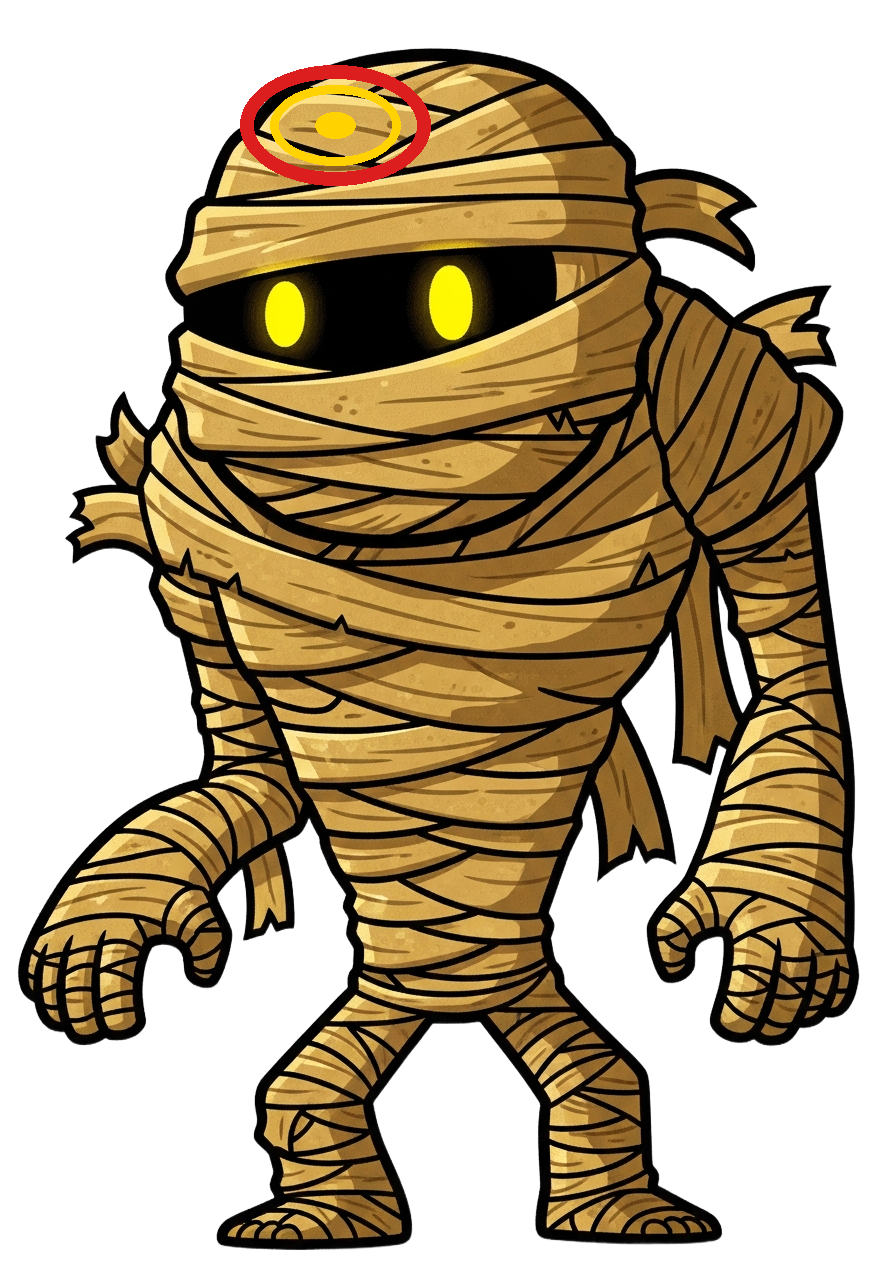
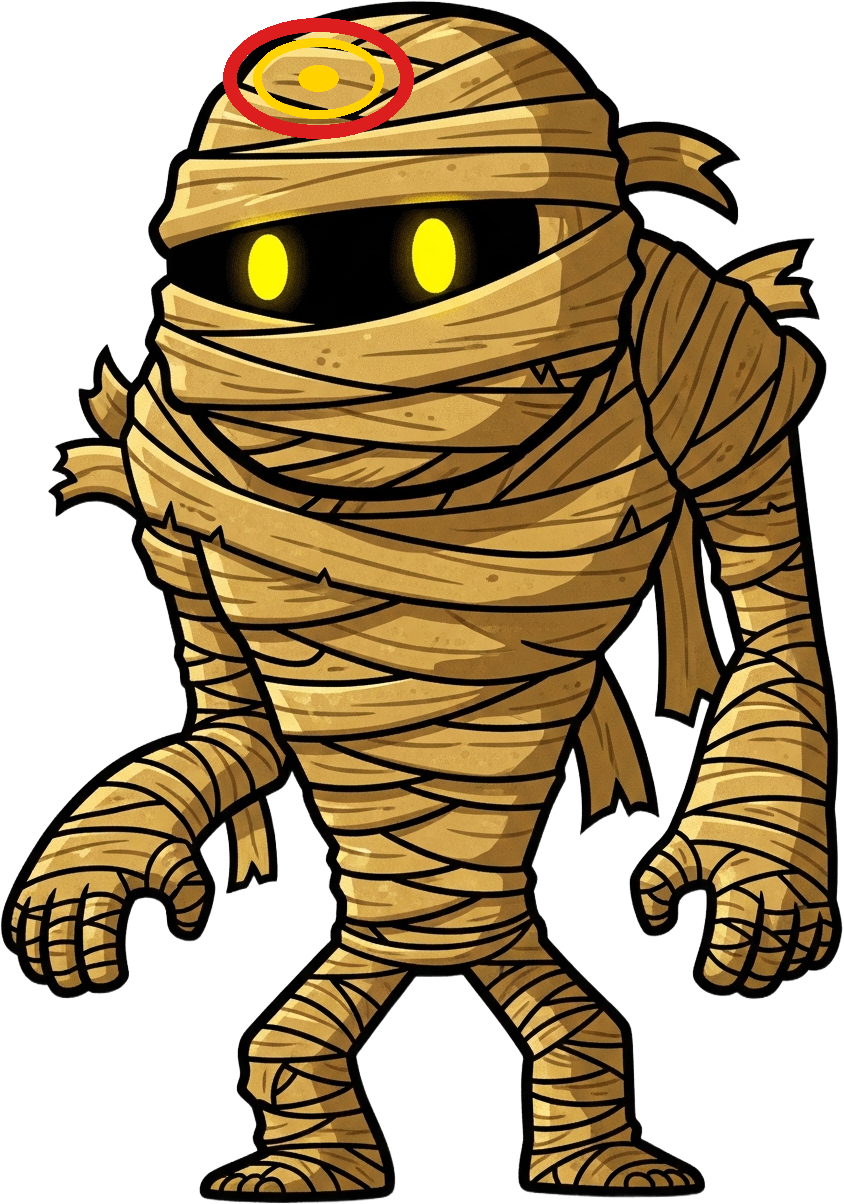
Improve mummy appearance and adjust starting positions
Updates mummy sprite assets for consistent sizing, repositions the bear's starting point, and corrects the deflect icon's drawing order to appear over the mummy.

Replit-Commit-Author: Agent
Replit-Commit-Session-Id: c7b7eeb9-c1de-43e3-8e58-ffdee0e9d70b
Replit-Commit-Checkpoint-Type: full_checkpoint
Replit-Commit-Event-Id: d6ceae64-71a6-4166-a753-1dd7d06531a0
Replit-Helium-Checkpoint-Created: true

diff --git a/Game/mainGame.py b/Game/mainGame.py
@@ -199,7 +199,7 @@ class mainGame:
         self.triggerFire = False
         floorHeight = 400
         continueLoop = True
-        bear = Bear(190, 295, self.screen)
+        bear = Bear(60, 295, self.screen)
         bear.setJumpStatus(False)
         bear.setLeftJumpStatus(False)
 
@@ -234,7 +234,7 @@ class mainGame:
         self.isDoor1Open = False
         self.escape = False
         backgroundScrollX = bear.getXPosition()
-        totalDistance = 190
+        totalDistance = 60
         bear.setLeftDirection(False)
         jumpTimer = 0
         attackCounterReady = 0
@@ -841,11 +841,6 @@ class mainGame:
                         else:
                             monster.setHurtTimer(0)
 
-            # ---- Deflect indicator for big mummy body hits -------------------
-            if deflectTimer > 0:
-                self.screen.blit(self.deflectIcon, deflectPos)
-                deflectTimer -= 1
-
             # ---- Attack animation (always runs, fixes 1-frame flicker gap) ------
             if 1 <= attackingAnimationCounter < 12:
                 attackingAnimationCounter += 1
@@ -911,6 +906,11 @@ class mainGame:
                 elif monster.getName() == "bigMummy":
                     self.keys.append(
                         KeyItem(self.screen, monster.getXPosition(), monster.getYPosition()))
+
+            # ---- Deflect indicator for big mummy body hits (drawn on top) ------
+            if deflectTimer > 0:
+                self.screen.blit(self.deflectIcon, deflectPos)
+                deflectTimer -= 1
 
             # ---- Boss lifecycle ------------------------------------------
             boss_to_remove = []
